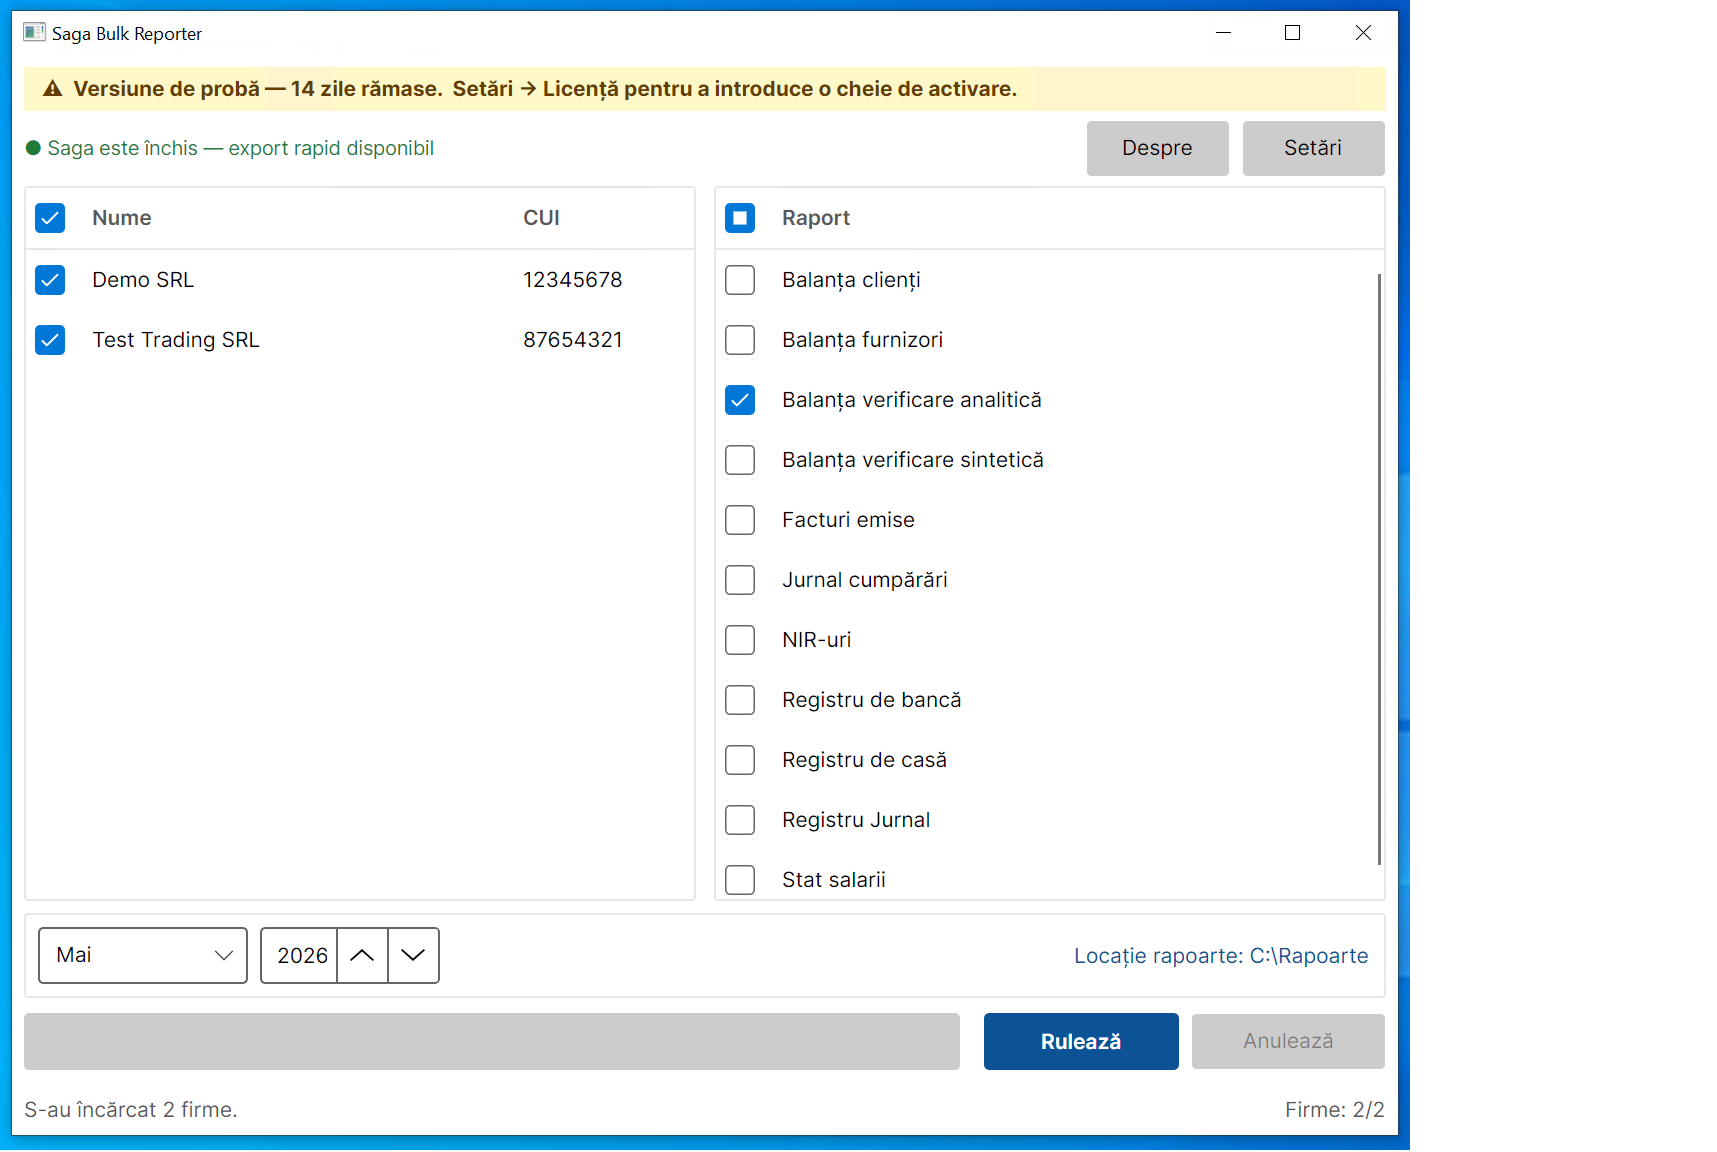
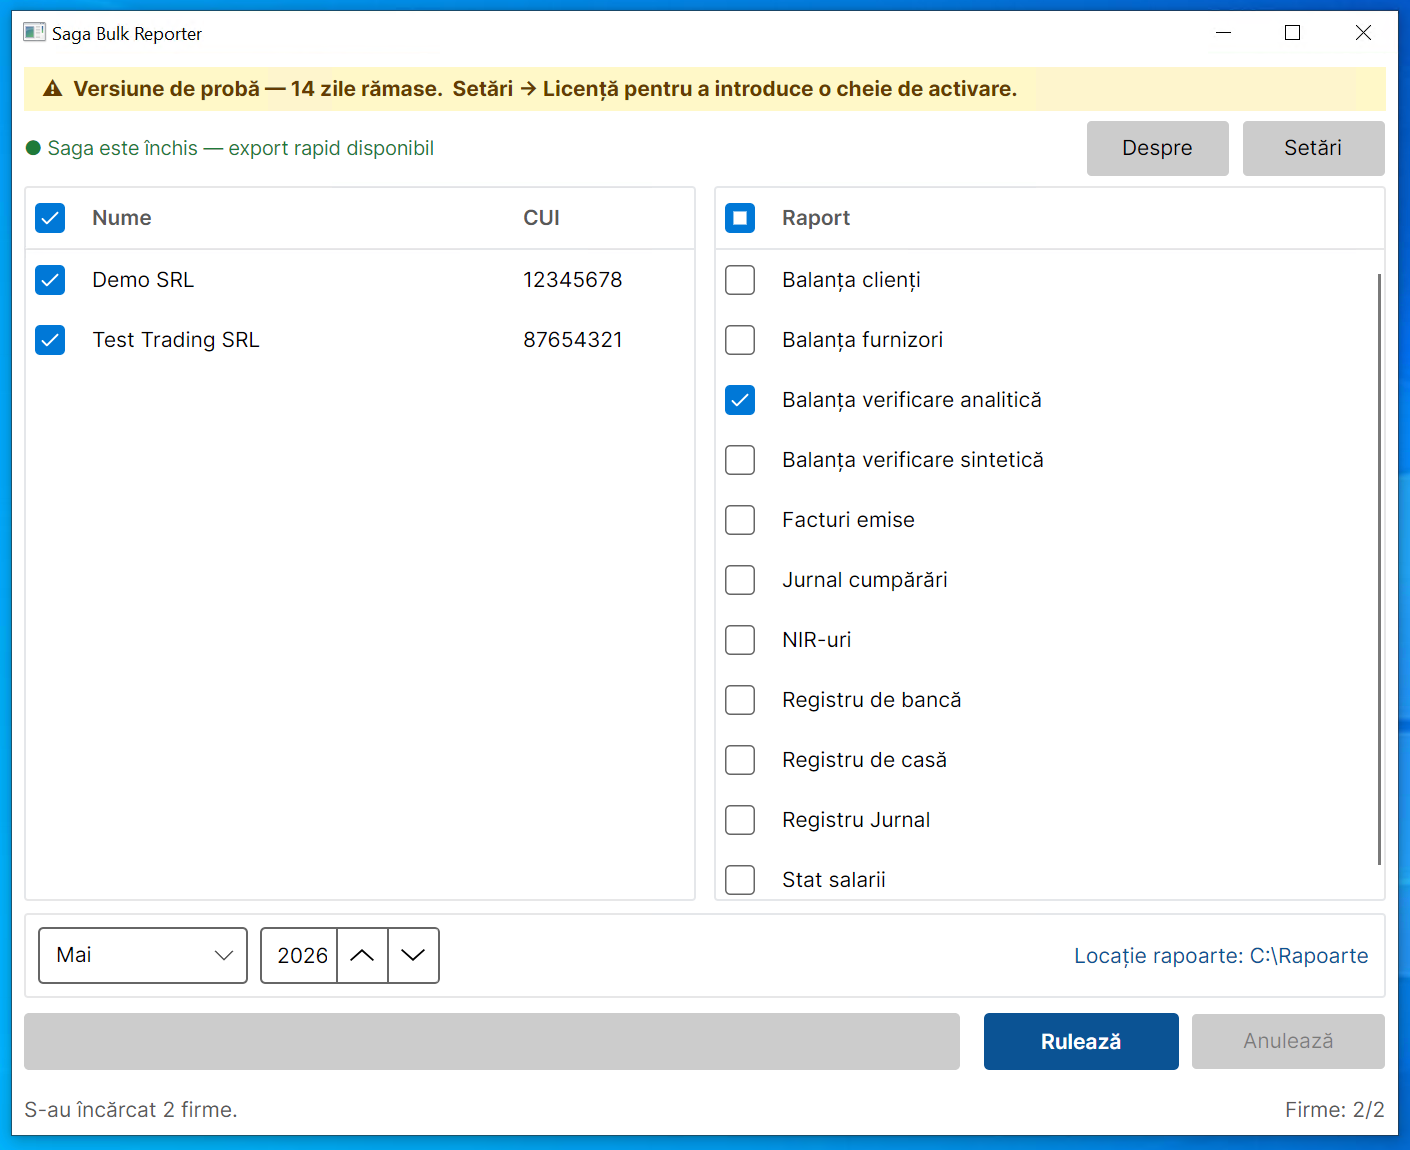
ui: crop screenshot padding + lift steps grid below subtitle
- screenshot-1: trimmed ~300 px of desktop-blue padding on the right
  so the app window sits flush. screenshot-3: trimmed ~28 px each side
  for the same reason. screenshot-2 was already tight.
- The three step images now have similar aspect (1.22 / 1.22 / 1.47);
  shifted the container aspect-ratio from 3/2 to 5/4 so the two close
  ones letterbox barely-perceptibly and the wider one (Explorer)
  keeps a small top/bottom strip — uniform slot dimensions across
  all three step columns and the hero.
- .steps margin-top:56px so the absolutely-positioned 01/02/03
  numerals (text-4xl, translateY(-100%)) clear the section subtitle
  after the earlier .section__header bottom-margin tightening.

diff --git a/index.html b/index.html
@@ -323,7 +323,7 @@
 
         .hero__screenshot {
             width: 100%;
-            aspect-ratio: 3 / 2;
+            aspect-ratio: 5 / 4;
             object-fit: contain;
             display: block;
             border: 1px solid var(--gray-200);
@@ -414,6 +414,10 @@
             grid-template-columns: repeat(3, 1fr);
             gap: 32px;
             counter-reset: step;
+            /* The 01/02/03 numerals are absolutely positioned above each
+               .step, lifted by translateY(-100%) at text-4xl (~67px). Give
+               the grid extra top margin so they clear the section subtitle. */
+            margin-top: 56px;
         }
 
         .step {
@@ -451,7 +455,7 @@
         .step__screenshot {
             margin-top: 24px;
             width: 100%;
-            aspect-ratio: 3 / 2;
+            aspect-ratio: 5 / 4;
             object-fit: contain;
             display: block;
             border: 1px solid var(--gray-200);